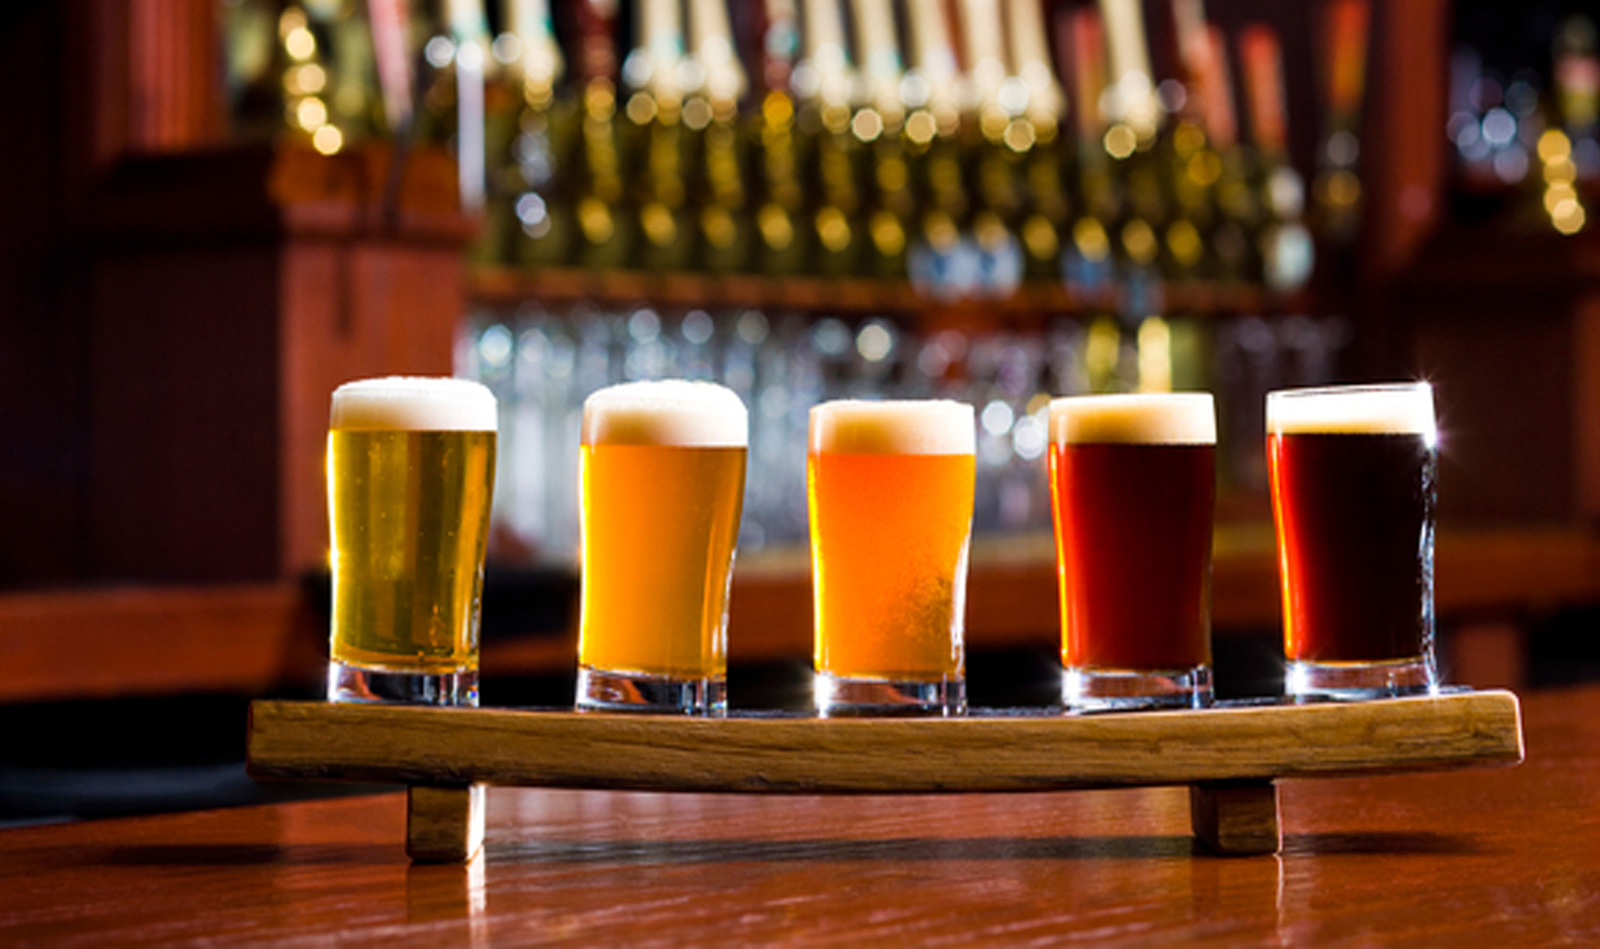
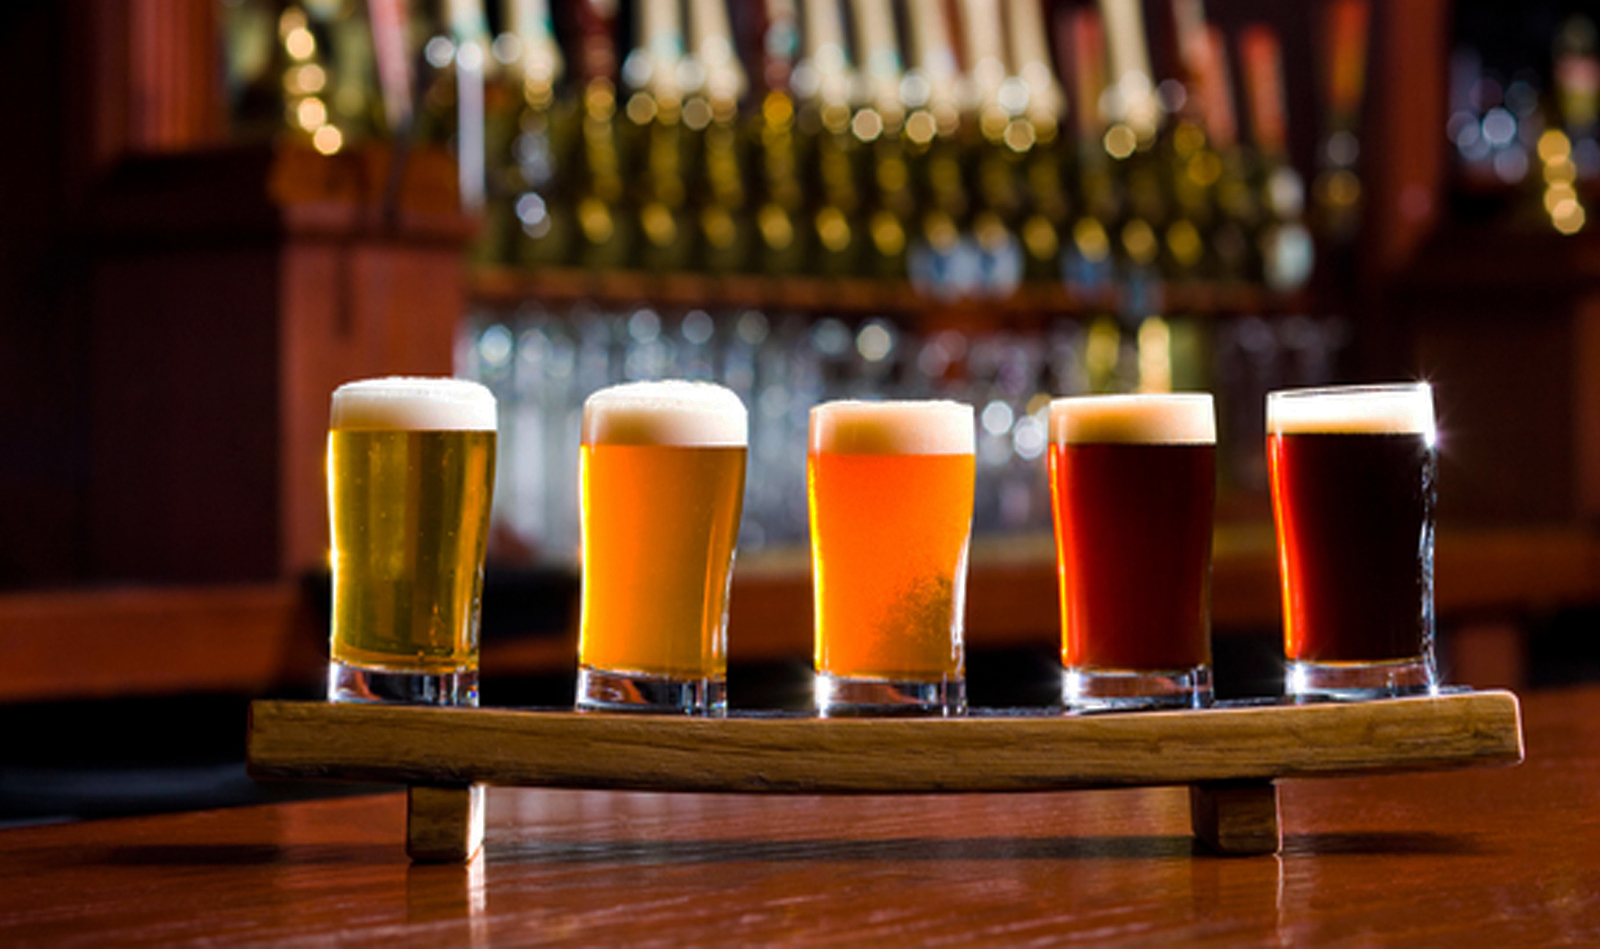
changed hover state, adjusted image background

diff --git a/public/about.html b/public/about.html
@@ -35,7 +35,7 @@
     </header>
     <section class="aboutWrap">
       <section class="aboutContent">
-        <h1 class="aboutTitle">ABOUT LOC<span class="ale">ALE</span></h1>
+        <h1 class="aboutTitle">ABOUT LOC<span class="ale2">ALE</span></h1>
         <br>
         <h2>THE APP</h2>
         <p>Discover local Seattle Beers while keeping your fat ass on the couch! Pick a style and get a random beer recommended. Any beer recommended is kept in your "Beer History" for easy reference. Want to see a list of all IPA's? Just check out "Browse"! Find one you like, just ask us to recommend a similar beer and we'll do the rest. We're excited to open your eyes to a whole new world of beer in Seattle.</p>

diff --git a/public/css/app.css b/public/css/app.css
@@ -60,6 +60,10 @@ p {
   color: white;
 }
 
+.ale2 {
+  color: #F0A800;
+}
+
 .nav {
   position: relative;
   float: right;
